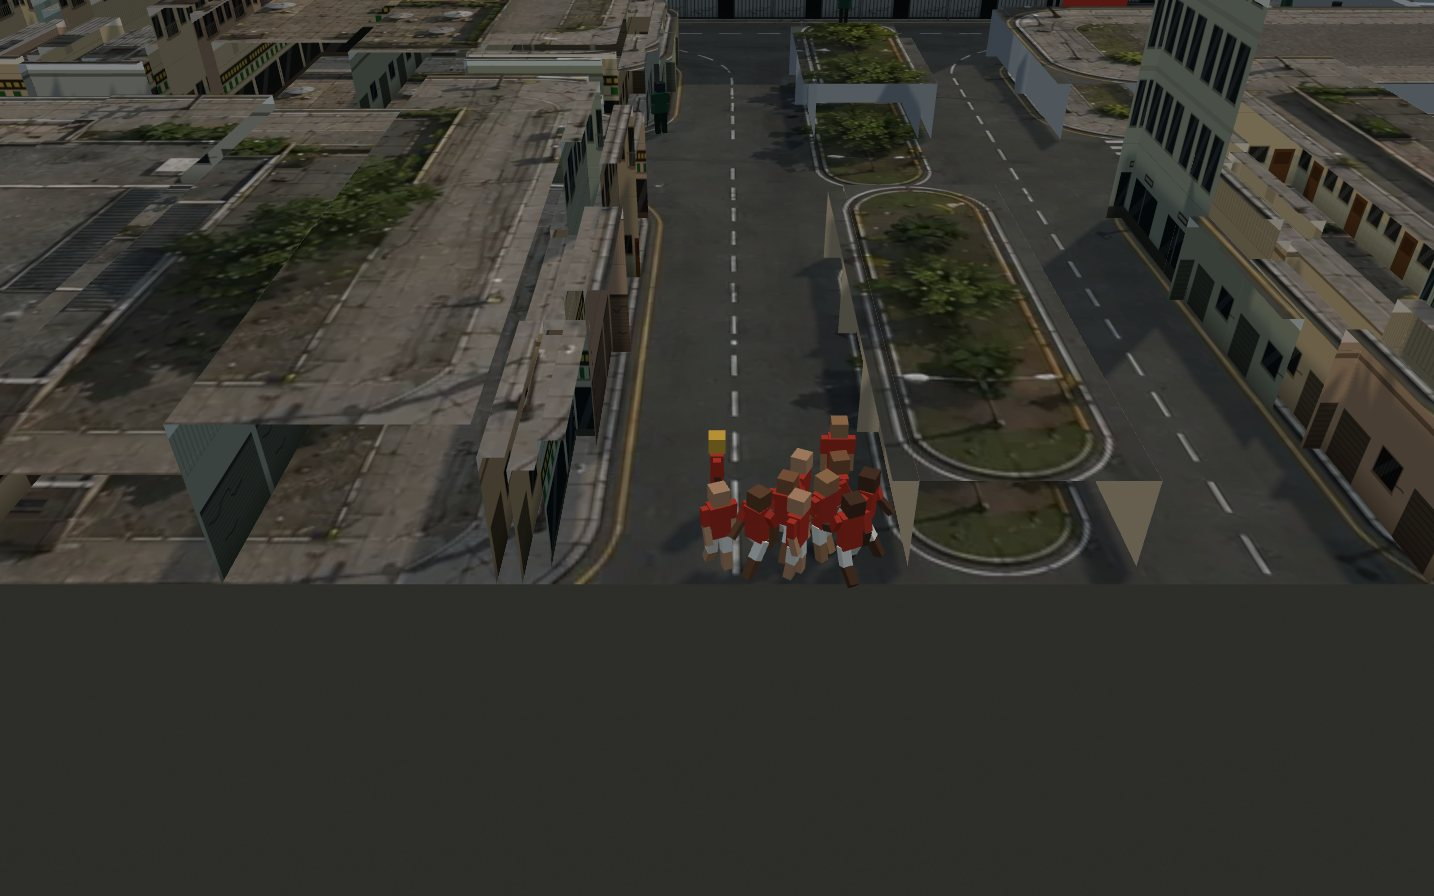
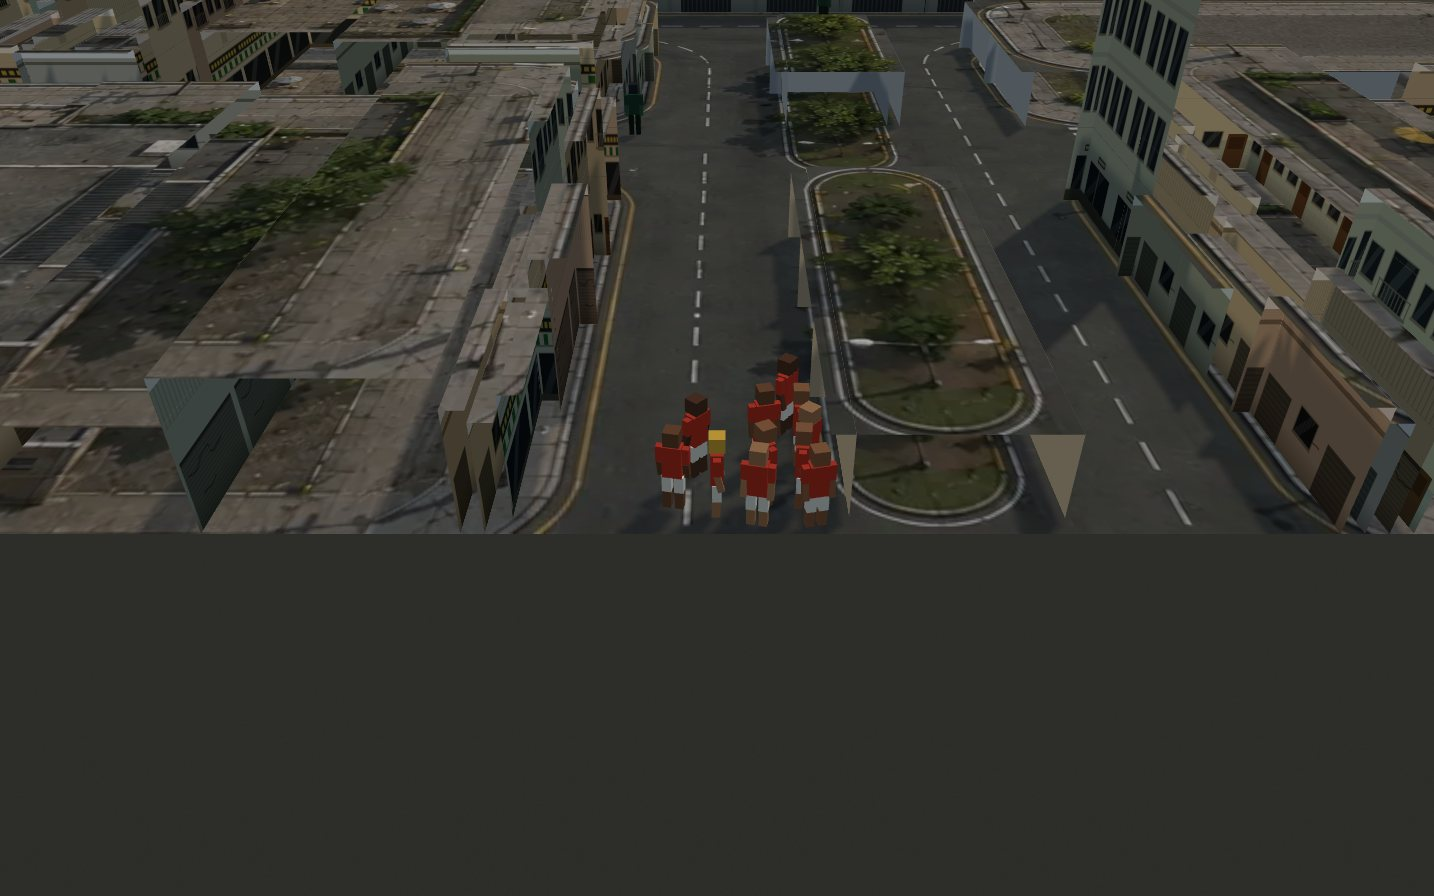
O estádio fica baixo, com muro, portão e bilheteria
Ele era 300 unidades — quase sete vezes uma casa — e virava um paredão
cinza que dominava o fundo inteiro da cena. Agora é 86, o dobro de uma
casa térrea, que é o que se vê da calçada: muro pintado com faixa,
portão de ferro numerado, bilheteria com guichê e balcão, concertina
em cima e pichação. A arquibancada mal aparece por trás.

Textura própria, e módulo de 172 em vez de 46: com o módulo de casa o
mesmo portão se repetia de dois em dois metros e o muro virava
sanfona. É também a única fachada em faixa única, do chão ao topo —
uma platibanda por cima cortaria o arame.

Claude-Session: https://claude.ai/code/session_01E2znEd4gjKEfFh7AGCCm7c

Changed region(s): [[0.0, 0.0, 1.0, 0.6562]]

diff --git a/js/diajogo/cena3d.js b/js/diajogo/cena3d.js
@@ -132,9 +132,9 @@ export function criar(canvas) {
   const PARAPEITO = 5;      // platibanda, a fatia lisa do topo
   const MOD = 46;           // largura de um módulo de fachada
 
-  function tela(n) {
+  function tela(w, h) {
     const c = document.createElement('canvas');
-    c.width = c.height = n;
+    c.width = w; c.height = h === undefined ? w : h;
     return { c: c, g: c.getContext('2d') };
   }
   function comoTextura(c) {
@@ -163,13 +163,15 @@ export function criar(canvas) {
       g.stroke(); g.restore();
     }
   }
-  const base = (g, tom) => { g.fillStyle = tom || '#e6e2d8'; g.fillRect(0, 0, 256, 256); };
-  const sujeira = g => {
+  const base = (g, tom, L, A) => { g.fillStyle = tom || '#e6e2d8';
+    g.fillRect(0, 0, L || 256, A || 256); };
+  const sujeira = (g, larg, alt) => {
     /* a barra escura do pé da parede: chuva, lama e ônibus */
-    const grad = g.createLinearGradient(0, 190, 0, 256);
+    const L = larg || 256, A = alt || 256, y = A * 0.74;
+    const grad = g.createLinearGradient(0, y, 0, A);
     grad.addColorStop(0, 'rgba(60,52,44,0)');
     grad.addColorStop(1, 'rgba(60,52,44,.34)');
-    g.fillStyle = grad; g.fillRect(0, 190, 256, 66);
+    g.fillStyle = grad; g.fillRect(0, y, L, A - y);
   };
   const janela = (g, x, y, w, h) => {
     g.fillStyle = '#8e887c'; g.fillRect(x - 3, y - 3, w + 6, h + 6);   // moldura
@@ -266,22 +268,46 @@ export function criar(canvas) {
       pichar(g, 10, 130, 236, 110, 'muro2');
       sujeira(g);
     },
-    estadio(g) {                      // concreto, gradil e um vão a cada dois
-      base(g, '#c6c2b8');
-      g.fillStyle = 'rgba(0,0,0,.10)';
-      for (let x = 0; x < 256; x += 64) g.fillRect(x, 0, 3, 256);  // junta
-      /* gradil corrido: é o que fecha o estádio por fora */
-      g.fillStyle = '#4a4a44'; g.fillRect(0, 96, 256, 8);
-      g.fillStyle = '#4a4a44'; g.fillRect(0, 244, 256, 12);
-      g.strokeStyle = 'rgba(50,50,46,.85)'; g.lineWidth = 5;
-      for (let x = 8; x < 256; x += 17) {
-        g.beginPath(); g.moveTo(x, 100); g.lineTo(x, 248); g.stroke();
+    /* O MURO DO ESTÁDIO, E ELE É BAIXO.
+       Estádio de bairro visto da calçada não é um paredão de trinta
+       metros: é muro pintado, portão de ferro numerado, a
+       bilheteria com o guichê e a concertina em cima. A arquibancada
+       aparece por cima do muro, e é só isso que se vê da rua.
+       O módulo aqui é 172 e não 46 — com o módulo curto o mesmo
+       portão se repetia a cada dois passos e o muro virava sanfona. */
+    estadio(g) {
+      const L = 512, A = 256;
+      base(g, '#cfc9ba', L, A);
+      /* pilastra a cada meio módulo */
+      g.fillStyle = 'rgba(0,0,0,.09)';
+      for (let x = 0; x < L; x += 128) g.fillRect(x, 0, 14, A);
+      /* a faixa pintada: é o que dá cara de estádio a um muro */
+      g.fillStyle = '#b8492f'; g.fillRect(0, 96, L, 34);
+      g.fillStyle = 'rgba(255,255,255,.55)'; g.fillRect(0, 130, L, 7);
+      /* portão de ferro, com a placa do número em cima */
+      g.fillStyle = '#3d3f42'; g.fillRect(40, 140, 150, 116);
+      g.strokeStyle = 'rgba(150,152,150,.5)'; g.lineWidth = 4;
+      for (let x = 48; x < 186; x += 13) {
+        g.beginPath(); g.moveTo(x, 146); g.lineTo(x, 254); g.stroke();
       }
-      /* o vão de acesso não é em toda parede: um a cada módulo duplo */
-      g.fillStyle = '#1d2024'; g.fillRect(150, 88, 76, 168);
-      g.fillStyle = '#8e887c'; g.fillRect(142, 80, 92, 10);
-      pichar(g, 10, 190, 120, 56, 'est');
-      sujeira(g);
+      g.fillStyle = '#5a5c5e'; g.fillRect(36, 134, 158, 10);
+      g.fillStyle = '#e4dcc4'; g.fillRect(92, 62, 46, 30);        // placa
+      g.fillStyle = '#2a2a28'; g.fillRect(104, 70, 22, 15);       // número
+      /* bilheteria: guichê fundo, balcão e toldo */
+      g.fillStyle = '#b6b0a2'; g.fillRect(300, 150, 118, 106);
+      g.fillStyle = '#1d2024'; g.fillRect(318, 178, 82, 46);
+      g.fillStyle = '#8e887c'; g.fillRect(312, 222, 94, 9);       // balcão
+      g.fillStyle = '#2f6a44'; g.fillRect(294, 140, 130, 14);     // toldo
+      g.fillStyle = 'rgba(0,0,0,.25)'; g.fillRect(294, 154, 130, 5);
+      /* concertina no alto do muro */
+      g.strokeStyle = 'rgba(70,70,66,.85)'; g.lineWidth = 3;
+      for (let x = 0; x < L; x += 26) {
+        g.beginPath(); g.arc(x + 13, 20, 12, 0.15, Math.PI - 0.15); g.stroke();
+      }
+      g.fillStyle = 'rgba(0,0,0,.14)'; g.fillRect(0, 34, L, 6);
+      pichar(g, 210, 168, 80, 70, 'est1');
+      pichar(g, 430, 160, 76, 84, 'est2');
+      sujeira(g, L, A);
     }
   };
 
@@ -330,29 +356,26 @@ export function criar(canvas) {
       for (let y = 20; y < 256; y += 34) { g.beginPath(); g.moveTo(0, y); g.lineTo(256, y); g.stroke(); }
       pichar(g, 10, 40, 236, 170, 'muroA');
     },
-    estadio(g) {                      // arquibancada: viga, empena e fresta
+    /* o muro do estádio é uma faixa só; isto existe pro caso de a
+       arquibancada um dia subir acima dele */
+    estadio(g) {
       base(g, '#c6c2b8');
-      /* a viga horizontal é o que faz ler estádio e não prédio:
-         concreto contínuo, com a fresta escura por baixo dela */
-      g.fillStyle = '#b4b0a6'; g.fillRect(0, 0, 256, 40);
-      g.fillStyle = 'rgba(0,0,0,.42)'; g.fillRect(0, 40, 256, 26);
-      g.fillStyle = '#c6c2b8'; g.fillRect(0, 66, 256, 190);
-      /* pilar a cada meio módulo, e a junta de dilatação */
       g.fillStyle = 'rgba(0,0,0,.13)';
-      for (let x = 0; x < 256; x += 128) g.fillRect(x + 54, 66, 20, 190);
-      g.fillStyle = 'rgba(0,0,0,.20)'; g.fillRect(126, 0, 4, 256);
-      /* escorrido de chuva sob a viga */
-      g.fillStyle = 'rgba(60,52,44,.16)';
-      for (let x = 18; x < 250; x += 46) g.fillRect(x, 66, 9, 120);
-      sujeira(g);
+      for (let x = 0; x < 256; x += 64) g.fillRect(x, 0, 16, 256);
+      g.fillStyle = 'rgba(0,0,0,.30)'; g.fillRect(0, 0, 256, 18);
     }
   };
 
   const texTerreo = {}, texAndar = {};
   for (const t of TIPOS) {
-    const a = tela(256); TERREO[t](a.g); texTerreo[t] = comoTextura(a.c);
+    const a = t === 'estadio' ? tela(512, 256) : tela(256);
+    TERREO[t](a.g); texTerreo[t] = comoTextura(a.c);
     const b = tela(256); ANDAR[t](b.g);  texAndar[t]  = comoTextura(b.c);
   }
+  /* Largura de um módulo de fachada, por tipo. O muro do estádio é
+     comprido e sem porta a cada passo: com o módulo de casa o portão
+     e a bilheteria se repetiam de dois em dois metros. */
+  const MOD_TIPO = { estadio: 172 };
 
   /* o granulado: a foto aérea tem 1 texel por unidade de mundo e
      a câmera de ombro amplia isso umas 14 vezes. Sem uma segunda
@@ -453,12 +476,16 @@ export function criar(canvas) {
      Aqui a altura sai do TIPO, e o tipo é casa na esmagadora
      maioria. Na régua da foto (~10 cm por unidade) casa térrea dá
      44, sobrado 78 e prédio 120 — e prédio é 2% do sorteio, o
-     edifício solitário que todo bairro tem. */
+     edifício solitário que todo bairro tem.
+     O estádio é 86: o dobro de uma casa e nada mais. Ele era 300 e
+     virava um paredão que dominava o fundo inteiro da cena; da
+     calçada, estádio de bairro é muro com portão, e a arquibancada
+     mal aparece por cima. */
   const ALTURAS = {
     maquete: { casa: 24, sobrado: 40, comercio: 28, galpao: 30, predio: 62,
-               estadio: 118, muro: 18, verde: 26, baixo: 12 },
+               estadio: 48, muro: 18, verde: 26, baixo: 12 },
     rua:     { casa: 44, sobrado: 78, comercio: 52, galpao: 58, predio: 120,
-               estadio: 300, muro: 30, verde: 34, baixo: 14 }
+               estadio: 86, muro: 30, verde: 34, baixo: 14 }
   };
   let modo = 'rua';
 
@@ -713,19 +740,25 @@ export function criar(canvas) {
           for (const par of paredes) {
             const a = par[0], b = par[1], n = par[2];
             const comp = Math.hypot(b[0] - a[0], b[1] - a[1]);
-            const u = Math.max(0.5, comp / MOD);
+            const u = Math.max(0.5, comp / (MOD_TIPO[tipo] || MOD));
             if (!tipo) {                       // canteiro, carro: sem fachada
               faixa('platibanda', 'liso', a, b, n, 0, alt, u, 1, cor);
+            } else if (tipo === 'estadio') {
+              /* muro do estádio: uma faixa só, do chão ao topo. A
+                 concertina já está desenhada no alto da textura, e
+                 uma platibanda por cima dela cortaria o arame. */
+              faixa('terreo', tipo, a, b, n, 0, alt, u, 1, cor);
             } else if (topo <= H_TERREO) {     // casa térrea: só o térreo
               faixa('terreo', tipo, a, b, n, 0, topo, u, topo / H_TERREO, cor);
+              faixa('platibanda', 'liso', a, b, n, topo, alt, u, 1,
+                    corTopo.copy(cor).lerp(BRANCO, 0.28));
             } else {
               faixa('terreo', tipo, a, b, n, 0, H_TERREO, u, 1, cor);
               faixa('andar', tipo, a, b, n, H_TERREO, topo, u,
                     (topo - H_TERREO) / H_ANDAR, cor);
-            }
-            if (tipo && alt > PARAPEITO)
               faixa('platibanda', 'liso', a, b, n, topo, alt, u, 1,
                     corTopo.copy(cor).lerp(BRANCO, 0.28));
+            }
           }
         }
       }

diff --git a/docs/PLANO_CENA_3D.md b/docs/PLANO_CENA_3D.md
@@ -89,7 +89,17 @@ deixava genérico. Cada parede sai em três faixas — térreo (não repete), an
 de 168 unidades e mandava todo quarteirão grande pra lá. Agora a altura sai do
 tipo — casa térrea 44, sobrado 78, comércio 52, galpão 58 — e o sorteio dá
 **56% casa, 22% comércio, 14% sobrado, 6% galpão e 2% prédio**: o edifício
-solitário que todo bairro tem. Só o estádio continua alto (300).
+solitário que todo bairro tem.
+
+**O estádio também é baixo: 86.** Ele era 300 e virava um paredão cinza que
+dominava o fundo inteiro da cena. Da calçada, estádio de bairro não é isso — é
+muro pintado, portão de ferro numerado, a bilheteria com guichê e balcão, e
+concertina em cima; a arquibancada mal aparece por trás. Ganhou textura própria,
+num módulo de 172 e não de 46: com o módulo de casa o mesmo portão se repetia
+de dois em dois metros e o muro virava sanfona. E é a única fachada em faixa
+única, do chão ao topo — uma platibanda por cima cortaria o arame.
+
+![o muro do estádio, da calçada](../img/cena3d/muro-estadio.jpg)
 
 **E o quarteirão virou lote.** A malha entrega o quarteirão inteiro como um
 retângulo, e um retângulo só vira um galpão de duzentos metros. Cortado em
